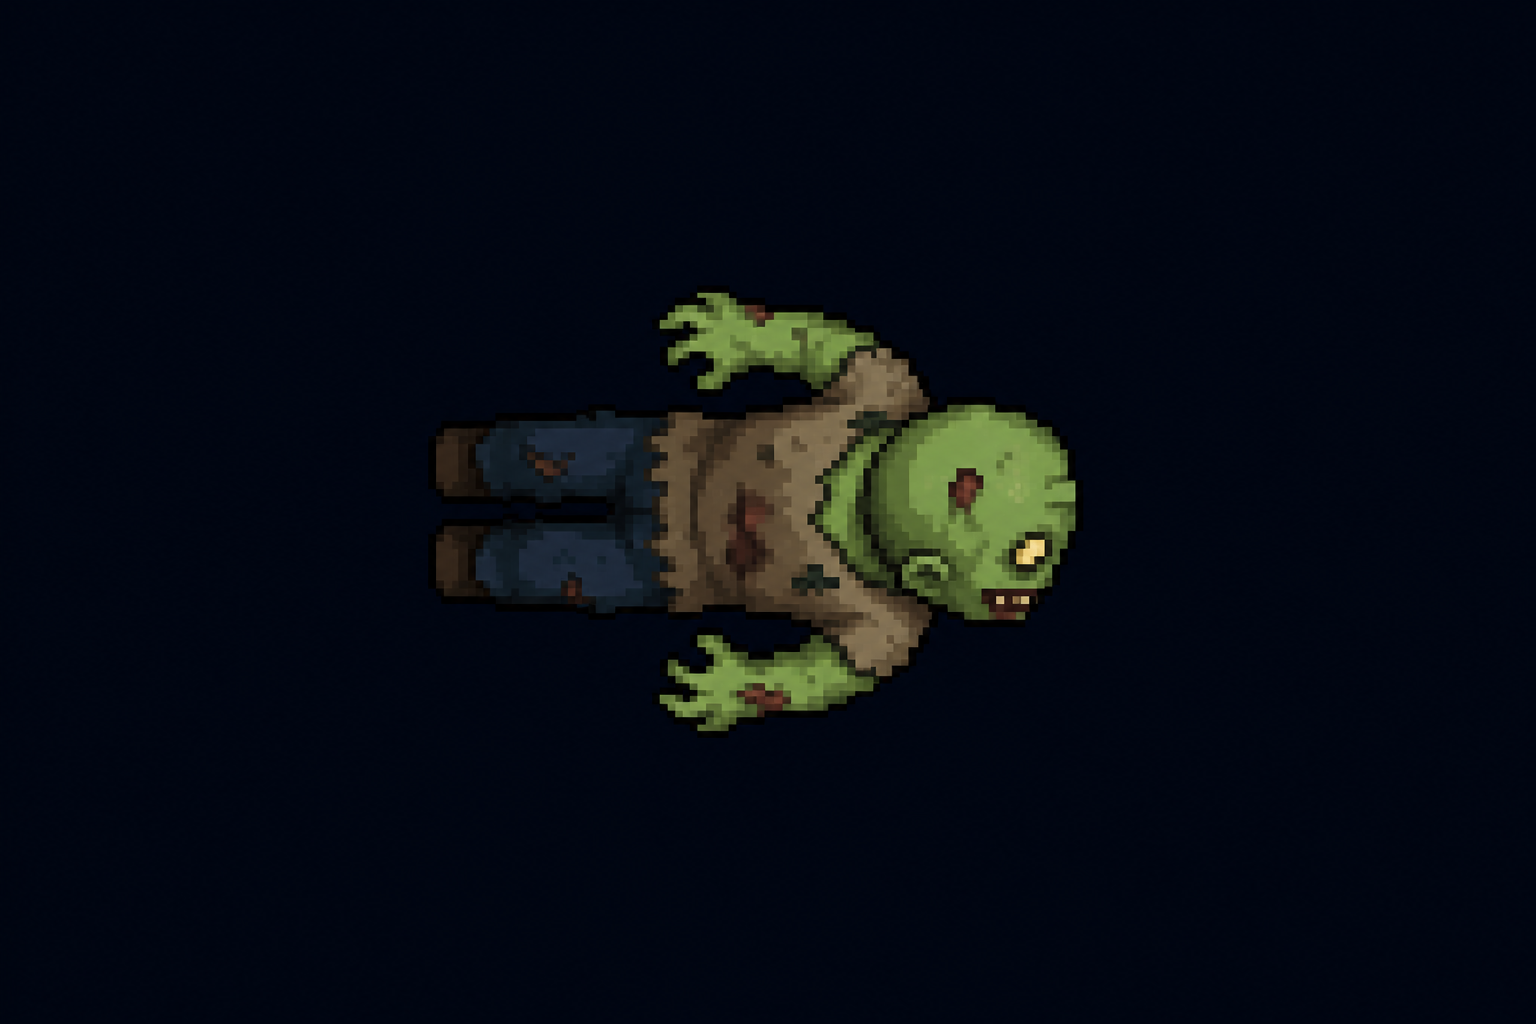
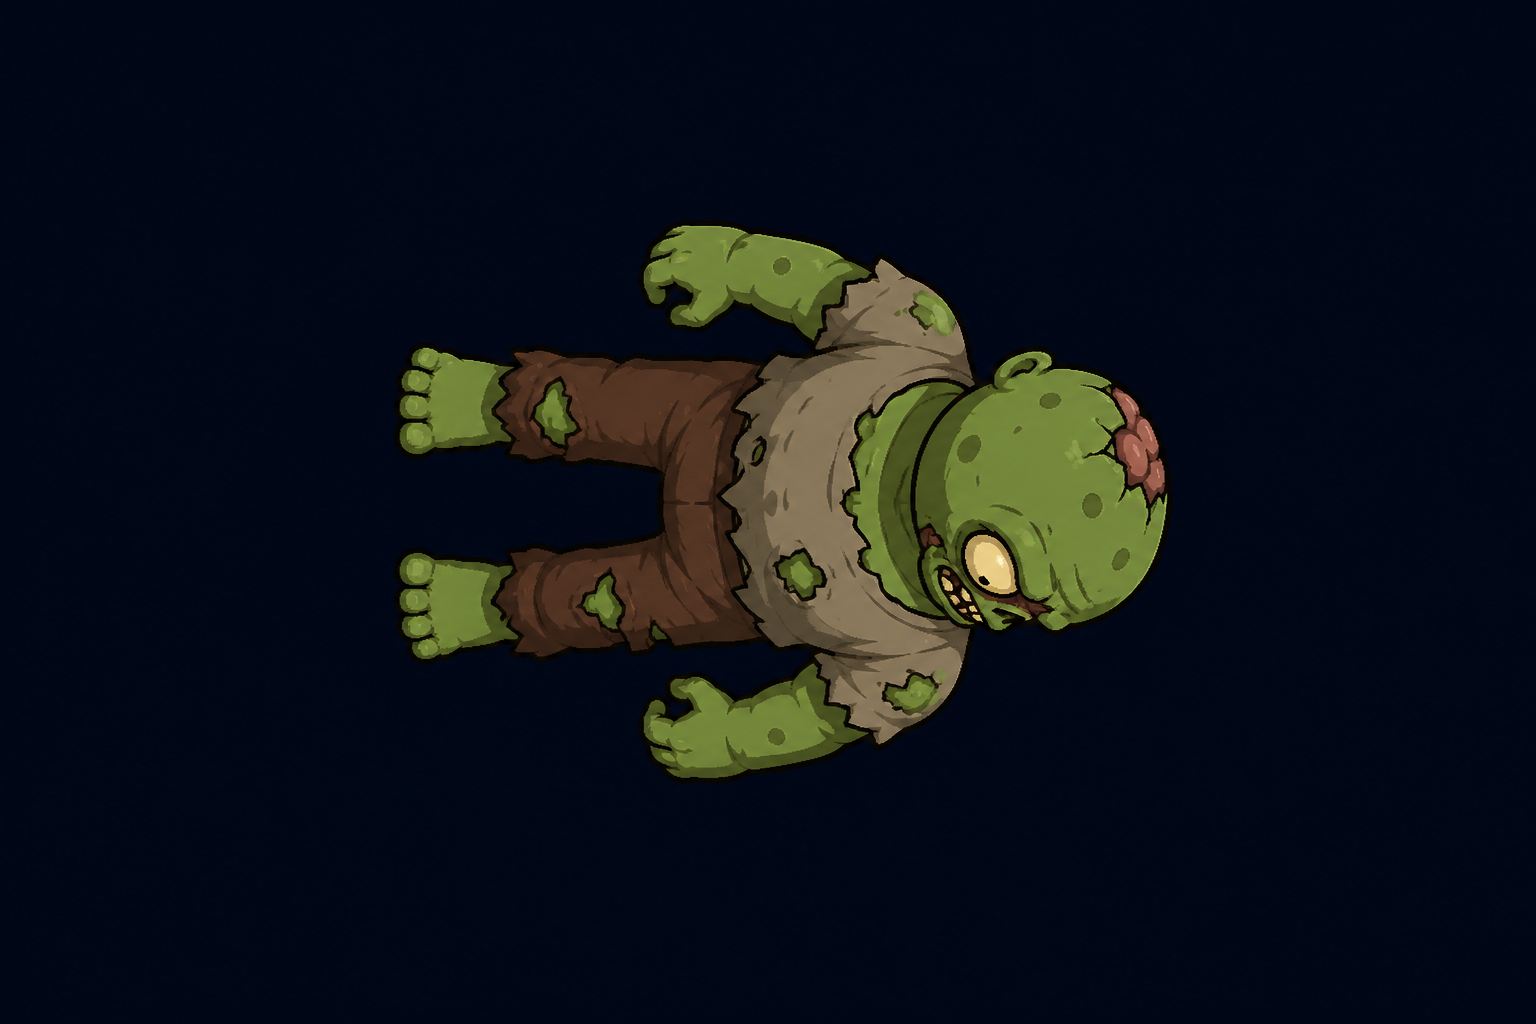
Redraw normal zombie top-down sprite with clearer legs and slightly larger in-game scale.

Changed region(s): [[0.25, 0.2188, 0.7812, 0.7812]]

diff --git a/public/game.js b/public/game.js
@@ -159,7 +159,7 @@ const WAVE_EVENTS = [
 
 
 
-const SPRITE_VERSION = 30;
+const SPRITE_VERSION = 31;
 
 function loadSpriteSheet(relativePath, frameCount, frameWidth, frameHeight, meta = {}) {
   const sheet = { img: new Image(), frameCount, frameWidth, frameHeight, ready: false, ...meta };
@@ -292,7 +292,7 @@ const ZOMBIE_VARIANT_META = {
   normal: {
     idle: { path: "images/zombies/zombie-normal-idle-sheet.png", frameCount: 8, frameWidth: 640, frameHeight: 640 },
     move: { path: "images/zombies/zombie-normal-move-sheet.png", frameCount: 8, frameWidth: 640, frameHeight: 640 },
-    sizeMult: 1.12
+    sizeMult: 1.18
   },
   tank: {
     idle: { path: "images/zombies/zombie-tank-idle-sheet.png", frameCount: 8, frameWidth: 640, frameHeight: 640 },

diff --git a/public/index.html b/public/index.html
@@ -5284,7 +5284,7 @@ TikTok @hulklives
 </div>
 
 <script src="game-pro.js?v=3"></script>
-<script src="game.js?v=209"></script>
+<script src="game.js?v=210"></script>
 <script src="chat.js?v=2"></script>
 <script src="daily-challenges.js?v=2"></script>
 <script src="friends.js?v=5"></script>
